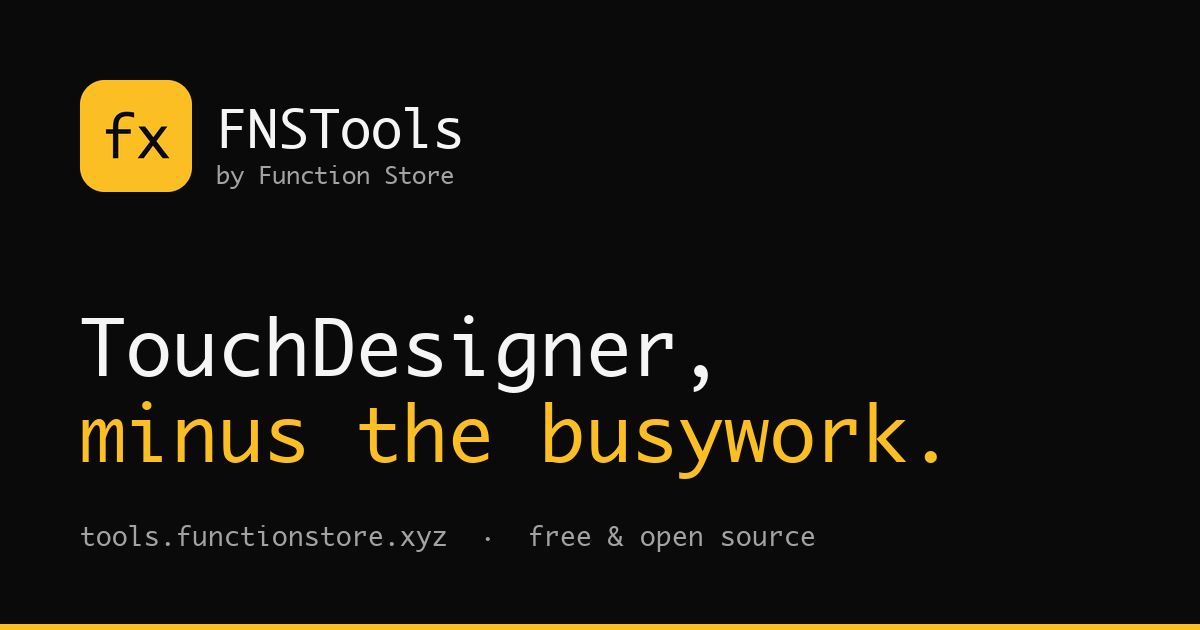
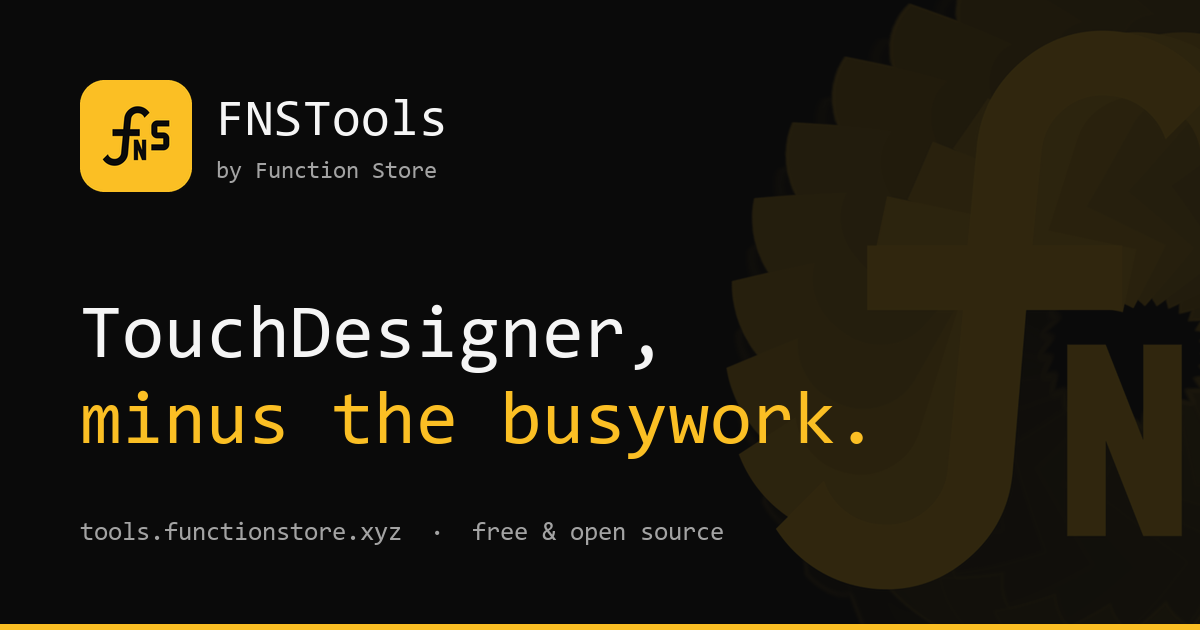
feat: real FNSTools mark for the website, downsized + recolored
Downsizes the new FNSLogo* masters (2048->1024) and rewrites
make-brand-assets.py to build favicon.png/og-image.png from the real
mark instead of a drawn "fx" placeholder, recolored to the site's own
accent/bg tokens. Also fixes the font lookup to resolve on Windows
(it only checked macOS paths before).

diff --git a/website/tools/make-brand-assets.py b/website/tools/make-brand-assets.py
@@ -1,9 +1,8 @@
-"""PLACEHOLDER brand assets for tools.functionstore.xyz.
-
-There is no square FNSTools logo in the repo -- icons/main.png is a
-1658x108 toolbar strip and icons/Fx.png is 50x19, both UI chrome rather
-than a mark. This draws a stand-in so the site is not shipping broken
-images, and is meant to be deleted once a real mark exists.
+"""Brand assets for tools.functionstore.xyz, built from the real FNSTools
+mark in icons/FNSLogo*.png (flat monogram + the feedback-pinwheel variant).
+Recolors the source art to the site's own token palette (see the :root
+block in website/index.html / docs.css) rather than shipping a second,
+hand-maintained copy of those colors.
 
     python3 website/tools/make-brand-assets.py
 
@@ -16,12 +15,18 @@ from PIL import Image, ImageDraw, ImageFont
 
 HERE = os.path.dirname(os.path.abspath(__file__))
 OUT = os.path.dirname(HERE)
+ICONS = os.path.join(os.path.dirname(OUT), 'icons')
 
-BG = (10, 10, 10)
-AMBER = (251, 191, 36)
-DIM = (163, 163, 163)
+BG = (10, 10, 10)          # --bg
+TEXT = (245, 245, 245)     # --text
+TEXT_DIM = (163, 163, 163) # --text-dim
+ACCENT = (251, 191, 36)    # --accent
 
 FONTS = [
+    # Windows
+    'C:/Windows/Fonts/consola.ttf',
+    'C:/Windows/Fonts/CascadiaMono.ttf',
+    # macOS
     '/System/Library/Fonts/Supplemental/Menlo.ttc',
     '/System/Library/Fonts/Monaco.ttf',
     '/System/Library/Fonts/SFNSMono.ttf',
@@ -46,32 +51,69 @@ def centered(draw, box, text, fnt, fill):
     draw.text((x, y), text, font=fnt, fill=fill)
 
 
+def recolor_flat(im, rgb):
+    """Replace every non-transparent pixel with a flat `rgb`, keeping the
+    source alpha as-is. The source art is a single-tone mark (a white
+    monogram, or a white pinwheel faded through alpha) so this is enough
+    to reskin it into any accent color without touching its shape."""
+    im = im.convert('RGBA')
+    solid = Image.new('RGBA', im.size, rgb + (0,))
+    solid.putalpha(im.split()[3])
+    return solid
+
+
+def mark(size, color, crop=True):
+    im = Image.open(os.path.join(ICONS, 'FNSLogo.png'))
+    im = recolor_flat(im, color)
+    if crop:
+        im = im.crop(im.getbbox())
+    scale = size / max(im.size)
+    return im.resize((max(1, int(im.width * scale)), max(1, int(im.height * scale))), Image.LANCZOS)
+
+
 def favicon(size=256):
-    # 4x supersample so the rounded corners are not jagged
+    # 4x supersample so the rounded corners and mark edges are not jagged
     s = size * 4
     img = Image.new('RGBA', (s, s), (0, 0, 0, 0))
     d = ImageDraw.Draw(img)
-    d.rounded_rectangle([0, 0, s - 1, s - 1], radius=int(s * 0.22), fill=AMBER)
-    centered(d, (0, -int(s * 0.02), s, s), 'fx', font(int(s * 0.52)), BG)
+    d.rounded_rectangle([0, 0, s - 1, s - 1], radius=int(s * 0.22), fill=ACCENT)
+    glyph = mark(int(s * 0.6), BG)
+    img.alpha_composite(glyph, ((s - glyph.width) // 2, (s - glyph.height) // 2))
     return img.resize((size, size), Image.LANCZOS)
 
 
+def watermark(height):
+    """A large, dim, accent-colored copy of the feedback-pinwheel mark,
+    meant to bleed off the edge of the og-image as a background texture --
+    same radial-glow language as .hero::before / .cfg-band in docs.css."""
+    im = Image.open(os.path.join(ICONS, 'FNSLogo_fbd.png'))
+    im = recolor_flat(im, ACCENT)
+    scale = height / im.height
+    im = im.resize((int(im.width * scale), height), Image.LANCZOS)
+    r, g, b, a = im.split()
+    return Image.merge('RGBA', (r, g, b, a.point(lambda v: int(v * 0.16))))
+
+
 def og(w=1200, h=630):
-    img = Image.new('RGB', (w, h), BG)
+    canvas = Image.new('RGBA', (w, h), BG + (255,))
+    wm = watermark(int(h * 1.4))
+    canvas.alpha_composite(wm, (w - int(wm.width * 0.6), (h - wm.height) // 2))
+    img = canvas.convert('RGB')
+
     d = ImageDraw.Draw(img)
-    mark = favicon(112)
-    img.paste(mark, (80, 80), mark)
-    d.text((216, 96), 'FNSTools', font=font(52), fill=(245, 245, 245))
-    d.text((216, 160), 'by Function Store', font=font(24), fill=DIM)
-    d.text((80, 300), 'TouchDesigner,', font=font(76), fill=(245, 245, 245))
-    d.text((80, 386), 'minus the busywork.', font=font(76), fill=AMBER)
+    chip = favicon(112)
+    img.paste(chip, (80, 80), chip)
+    d.text((216, 96), 'FNSTools', font=font(52), fill=TEXT)
+    d.text((216, 160), 'by Function Store', font=font(24), fill=TEXT_DIM)
+    d.text((80, 300), 'TouchDesigner,', font=font(76), fill=TEXT)
+    d.text((80, 386), 'minus the busywork.', font=font(76), fill=ACCENT)
     d.text((80, 520), 'tools.functionstore.xyz  ·  free & open source',
-           font=font(26), fill=DIM)
-    d.rectangle([0, h - 6, w, h], fill=AMBER)
+           font=font(26), fill=TEXT_DIM)
+    d.rectangle([0, h - 6, w, h], fill=ACCENT)
     return img
 
 
 if __name__ == '__main__':
     favicon().save(os.path.join(OUT, 'favicon.png'))
     og().save(os.path.join(OUT, 'og-image.png'))
-    print('wrote website/favicon.png and website/og-image.png (placeholders)')
+    print('wrote website/favicon.png and website/og-image.png')
